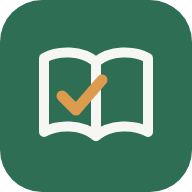
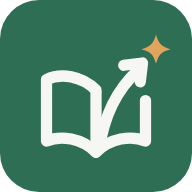
Renomeia o projeto para Pulso e aplica a nova identidade visual
- Logo recriada em vetor (public/logo.svg) a partir da arte oficial:
  livro aberto com página que vira seta ascendente e brilho âmbar
- Favicon (app/icon.svg) e ícone de notificações (icone-192.png) com a marca
- Nome atualizado em toda a interface, metadados, documentação, e-mails
  de lembrete e service worker

Claude-Session: https://claude.ai/code/session_016igjkAowwQQi2ZZAymZ3t2

diff --git a/lib/notificacoes.ts b/lib/notificacoes.ts
@@ -95,7 +95,7 @@ export async function enviarPush(titulo: string, corpo: string) {
   if (!pushConfigurado()) return { enviados: 0, erro: "push não configurado" };
 
   webpush.setVapidDetails(
-    "mailto:notificacoes@estudaflow.local",
+    "mailto:notificacoes@pulso.local",
     process.env.NEXT_PUBLIC_VAPID_PUBLIC_KEY!,
     process.env.VAPID_PRIVATE_KEY!
   );
@@ -134,7 +134,7 @@ export async function enviarEmail(titulo: string, corpo: string) {
 
   const gmail = google.gmail({ version: "v1", auth });
 
-  const assunto = `EstudaFlow · ${titulo}`;
+  const assunto = `Pulso · ${titulo}`;
   // Assunto com acentos precisa de codificação MIME
   const assuntoMime = `=?UTF-8?B?${Buffer.from(assunto).toString("base64")}?=`;
   const mensagem = [
@@ -144,7 +144,7 @@ export async function enviarEmail(titulo: string, corpo: string) {
     "",
     corpo,
     "",
-    "— EstudaFlow, seu sistema de estudos",
+    "— Pulso, seu sistema de estudos",
   ].join("\r\n");
 
   try {

diff --git a/lib/auth.ts b/lib/auth.ts
@@ -1,7 +1,7 @@
 // Autenticação simples por senha única (app pessoal).
 // Usa Web Crypto para funcionar tanto no middleware (edge) quanto nas rotas.
 
-export const COOKIE_SESSAO = "estudaflow_sessao";
+export const COOKIE_SESSAO = "pulso_sessao";
 
 export function senhaConfigurada(): string | undefined {
   return process.env.SENHA_DE_ACESSO || undefined;
@@ -9,7 +9,7 @@ export function senhaConfigurada(): string | undefined {
 
 // Token derivado da senha — o que vai no cookie. Trocar a senha invalida as sessões.
 export async function tokenDeAcesso(senha: string): Promise<string> {
-  const dados = new TextEncoder().encode(`estudaflow-v1:${senha}`);
+  const dados = new TextEncoder().encode(`pulso-v1:${senha}`);
   const hash = await crypto.subtle.digest("SHA-256", dados);
   return Array.from(new Uint8Array(hash))
     .map((b) => b.toString(16).padStart(2, "0"))

diff --git a/app/entrar/page.tsx b/app/entrar/page.tsx
@@ -10,8 +10,15 @@ export default async function Entrar({
   return (
     <div style={{ maxWidth: 380, margin: "18vh auto 0" }}>
       <div className="cartao pilha">
-        <div className="logo" style={{ padding: 0 }}>
-          Estuda<span style={{ color: "var(--acento)" }}>Flow</span>
+        <div
+          className="logo"
+          style={{ padding: 0, display: "flex", alignItems: "center", gap: 8 }}
+        >
+          {/* eslint-disable-next-line @next/next/no-img-element */}
+          <img src="/logo.svg" alt="" width={34} height={34} />
+          <span>
+            Pul<span style={{ color: "var(--acento)" }}>so</span>
+          </span>
         </div>
         <p className="texto-suave">Este é um espaço pessoal. Digite a senha de acesso.</p>
         {erro && (

diff --git a/public/sw.js b/public/sw.js
@@ -1,7 +1,7 @@
-// Service worker do EstudaFlow — recebe notificações push e as mostra na tela.
+// Service worker do Pulso — recebe notificações push e as mostra na tela.
 
 self.addEventListener("push", (event) => {
-  let dados = { titulo: "EstudaFlow", corpo: "Você tem pendências de estudo." };
+  let dados = { titulo: "Pulso", corpo: "Você tem pendências de estudo." };
   try {
     dados = event.data.json();
   } catch (e) {
@@ -14,7 +14,7 @@ self.addEventListener("push", (event) => {
       body: dados.corpo,
       icon: "/icone-192.png",
       badge: "/icone-192.png",
-      tag: "estudaflow-resumo",
+      tag: "pulso-resumo",
       renotify: true,
     })
   );

diff --git a/components/Sidebar.tsx b/components/Sidebar.tsx
@@ -42,8 +42,12 @@ export function Sidebar() {
 
   return (
     <aside className="sidebar">
-      <div className="logo">
-        Estuda<span>Flow</span>
+      <div className="logo" style={{ display: "flex", alignItems: "center", gap: 8 }}>
+        {/* eslint-disable-next-line @next/next/no-img-element */}
+        <img src="/logo.svg" alt="" width={30} height={30} />
+        <span style={{ color: "var(--tinta)" }}>
+          Pul<span style={{ color: "var(--acento)" }}>so</span>
+        </span>
       </div>
       {grupos.map((grupo) => (
         <div key={grupo.titulo}>

diff --git a/lib/ai.ts b/lib/ai.ts
@@ -71,7 +71,7 @@ export async function contextoDoEstudante(): Promise<string> {
   return linhas.join("\n");
 }
 
-export const SYSTEM_TUTOR = `Você é o assistente de estudos do EstudaFlow, um sistema pessoal de organização de estudos.
+export const SYSTEM_TUTOR = `Você é o assistente de estudos do Pulso, um sistema pessoal de organização de estudos.
 Você recebe, junto com cada conversa, um retrato do estado atual dos estudos do usuário (matérias, tarefas, cronograma, horas estudadas).
 
 Suas funções:

diff --git a/app/layout.tsx b/app/layout.tsx
@@ -3,7 +3,7 @@ import "./globals.css";
 import { Sidebar } from "@/components/Sidebar";
 
 export const metadata: Metadata = {
-  title: "EstudaFlow",
+  title: "Pulso",
   description: "Sistema completo de organização de estudos com IA",
 };
 

diff --git a/docs/INTEGRACOES.md b/docs/INTEGRACOES.md
@@ -2,7 +2,7 @@
 
 ## 1. Assistente IA — escolha sua opção
 
-O EstudaFlow funciona com **duas IAs** (assistente, quiz, Feynman, leitura de imagens do
+O Pulso funciona com **duas IAs** (assistente, quiz, Feynman, leitura de imagens do
 calendário). Você só precisa de UMA:
 
 ### Opção A — Gemini (Google) · GRATUITA · ~2 minutos
@@ -31,9 +31,9 @@ calendário). Você só precisa de UMA:
 ### E o NotebookLM ("Gemini Notebook")?
 
 O **NotebookLM não tem API pública** — o Google não permite que outros aplicativos se
-conectem a ele. Ou seja, não dá para integrar diretamente ao EstudaFlow. Alternativas:
+conectem a ele. Ou seja, não dá para integrar diretamente ao Pulso. Alternativas:
 - Use o **Gemini** aqui dentro (opção A) — é a mesma família de IA por trás do NotebookLM;
-- Para usar o NotebookLM em paralelo: copie suas Notas do EstudaFlow e cole lá como fonte.
+- Para usar o NotebookLM em paralelo: copie suas Notas do Pulso e cole lá como fonte.
 
 ## 2. Google (Classroom, Gmail, Drive) — ~10 minutos, gratuito
 
@@ -43,14 +43,14 @@ sua conta Google.
 ### Passo a passo no Google Cloud
 
 1. Acesse [console.cloud.google.com](https://console.cloud.google.com) com sua conta Google.
-2. No topo, crie um **novo projeto** (ex.: "EstudaFlow").
+2. No topo, crie um **novo projeto** (ex.: "Pulso").
 3. **Ative as três APIs** — menu *APIs e serviços → Biblioteca*, busque e ative uma a uma:
    - **Google Classroom API**
    - **Gmail API**
    - **Google Drive API**
 4. **Tela de consentimento** — menu *APIs e serviços → Tela de permissão OAuth*:
    - Tipo de usuário: **Externo** → criar
-   - Preencha só o obrigatório (nome do app "EstudaFlow", seu e-mail nos dois campos)
+   - Preencha só o obrigatório (nome do app "Pulso", seu e-mail nos dois campos)
    - Em **Usuários de teste**, adicione o seu próprio e-mail (importante!)
 5. **Credenciais** — menu *APIs e serviços → Credenciais → Criar credenciais → ID do
    cliente OAuth*:
@@ -68,7 +68,7 @@ sua conta Google.
    ```
 7. Reinicie o servidor, abra **Integrações** no menu e clique em **Conectar conta Google**.
    O Google mostrará um aviso de "app não verificado" — normal para apps pessoais em modo
-   de teste; clique em *Avançado → Acessar EstudaFlow*.
+   de teste; clique em *Avançado → Acessar Pulso*.
 
 ### O que cada integração faz
 

diff --git a/docs/DEPLOY.md b/docs/DEPLOY.md
@@ -1,6 +1,6 @@
-# Colocar o EstudaFlow na internet (gratuito)
+# Colocar o Pulso na internet (gratuito)
 
-Ao final você terá um link público (ex.: `https://estudaflow.vercel.app`) para acessar de
+Ao final você terá um link público (ex.: `https://pulso.vercel.app`) para acessar de
 qualquer lugar, protegido por uma senha que só você conhece.
 
 Usamos dois serviços com plano gratuito generoso:
@@ -12,13 +12,13 @@ Tempo total: ~15 minutos.
 ## 1. Criar o banco no Turso (~5 min)
 
 1. Acesse [turso.tech](https://turso.tech) e clique em **Sign Up** (entre com o GitHub).
-2. No painel, clique em **Create Database** — dê o nome `estudaflow` e escolha a região
+2. No painel, clique em **Create Database** — dê o nome `pulso` e escolha a região
    `São Paulo (gru)` se disponível.
 3. Abra o banco criado e copie a **URL** (começa com `libsql://`).
 4. Ainda no banco, vá em **Tokens** (ou "Generate Token") e crie um token — copie-o.
 5. No seu computador, adicione os dois valores ao `.env`:
    ```
-   TURSO_DATABASE_URL="libsql://estudaflow-....turso.io"
+   TURSO_DATABASE_URL="libsql://pulso-....turso.io"
    TURSO_AUTH_TOKEN="eyJ..."
    ```
 6. Crie as tabelas no banco da nuvem:
@@ -47,7 +47,7 @@ Tempo total: ~15 minutos.
 4. Clique em **Deploy** e aguarde (~2 min). A Vercel mostrará o link do seu projeto —
    algo como `https://teste-xxxx.vercel.app`.
 5. (Opcional) Em *Settings → Domains* você pode trocar para um nome melhor, ex.:
-   `estudaflow.vercel.app`, se estiver livre.
+   `pulso.vercel.app`, se estiver livre.
 
 Pronto: abra o link, digite sua senha e use de qualquer lugar, inclusive do celular.
 

diff --git a/README.md b/README.md
@@ -1,7 +1,9 @@
-# EstudaFlow 📚
+<img src="public/logo.svg" alt="Logo do Pulso" width="72" align="right" />
 
-Sistema completo e pessoal de organização de estudos, com assistente de IA (Claude) e
-integrações com Google Classroom, Gmail e Drive. Roda no seu computador, com seus dados
+# Pulso
+
+Sistema completo e pessoal de organização de estudos, com assistente de IA (Gemini
+gratuito ou Claude) e integrações com Google Classroom, Gmail e Drive. Roda no seu computador, com seus dados
 guardados em um banco local — nada vai para a nuvem além das chamadas de IA e do Google
 que você autorizar.
 
@@ -68,4 +70,4 @@ Para acessar de qualquer lugar por um link público protegido por senha, siga
 ---
 
 *Obs.: `calculadora.py` e `test_calculadora.py` são arquivos de demonstração anteriores do
-repositório, sem relação com o EstudaFlow.*
+repositório, sem relação com o Pulso.*

diff --git a/docs/VISAO.md b/docs/VISAO.md
@@ -14,7 +14,7 @@ materiais ficam no Drive — mais três lugares para olhar.
 
 ## A solução
 
-O EstudaFlow junta tudo em um único sistema local:
+O Pulso junta tudo em um único sistema local:
 
 - Os quatro passos (planejar → executar → reter → acompanhar) viram módulos que conversam
   entre si: a sessão de Pomodoro alimenta as estatísticas e a sequência de dias; as tarefas

diff --git a/docs/NOTIFICACOES.md b/docs/NOTIFICACOES.md
@@ -1,6 +1,6 @@
 # Notificações
 
-O EstudaFlow envia um **resumo diário** com: tarefas atrasadas e vencendo em 48h (com o
+O Pulso envia um **resumo diário** com: tarefas atrasadas e vencendo em 48h (com o
 nível de urgência), provas/eventos do calendário de hoje e amanhã, flashcards vencidos e os
 blocos de estudo do dia. Ele chega por dois canais:
 
